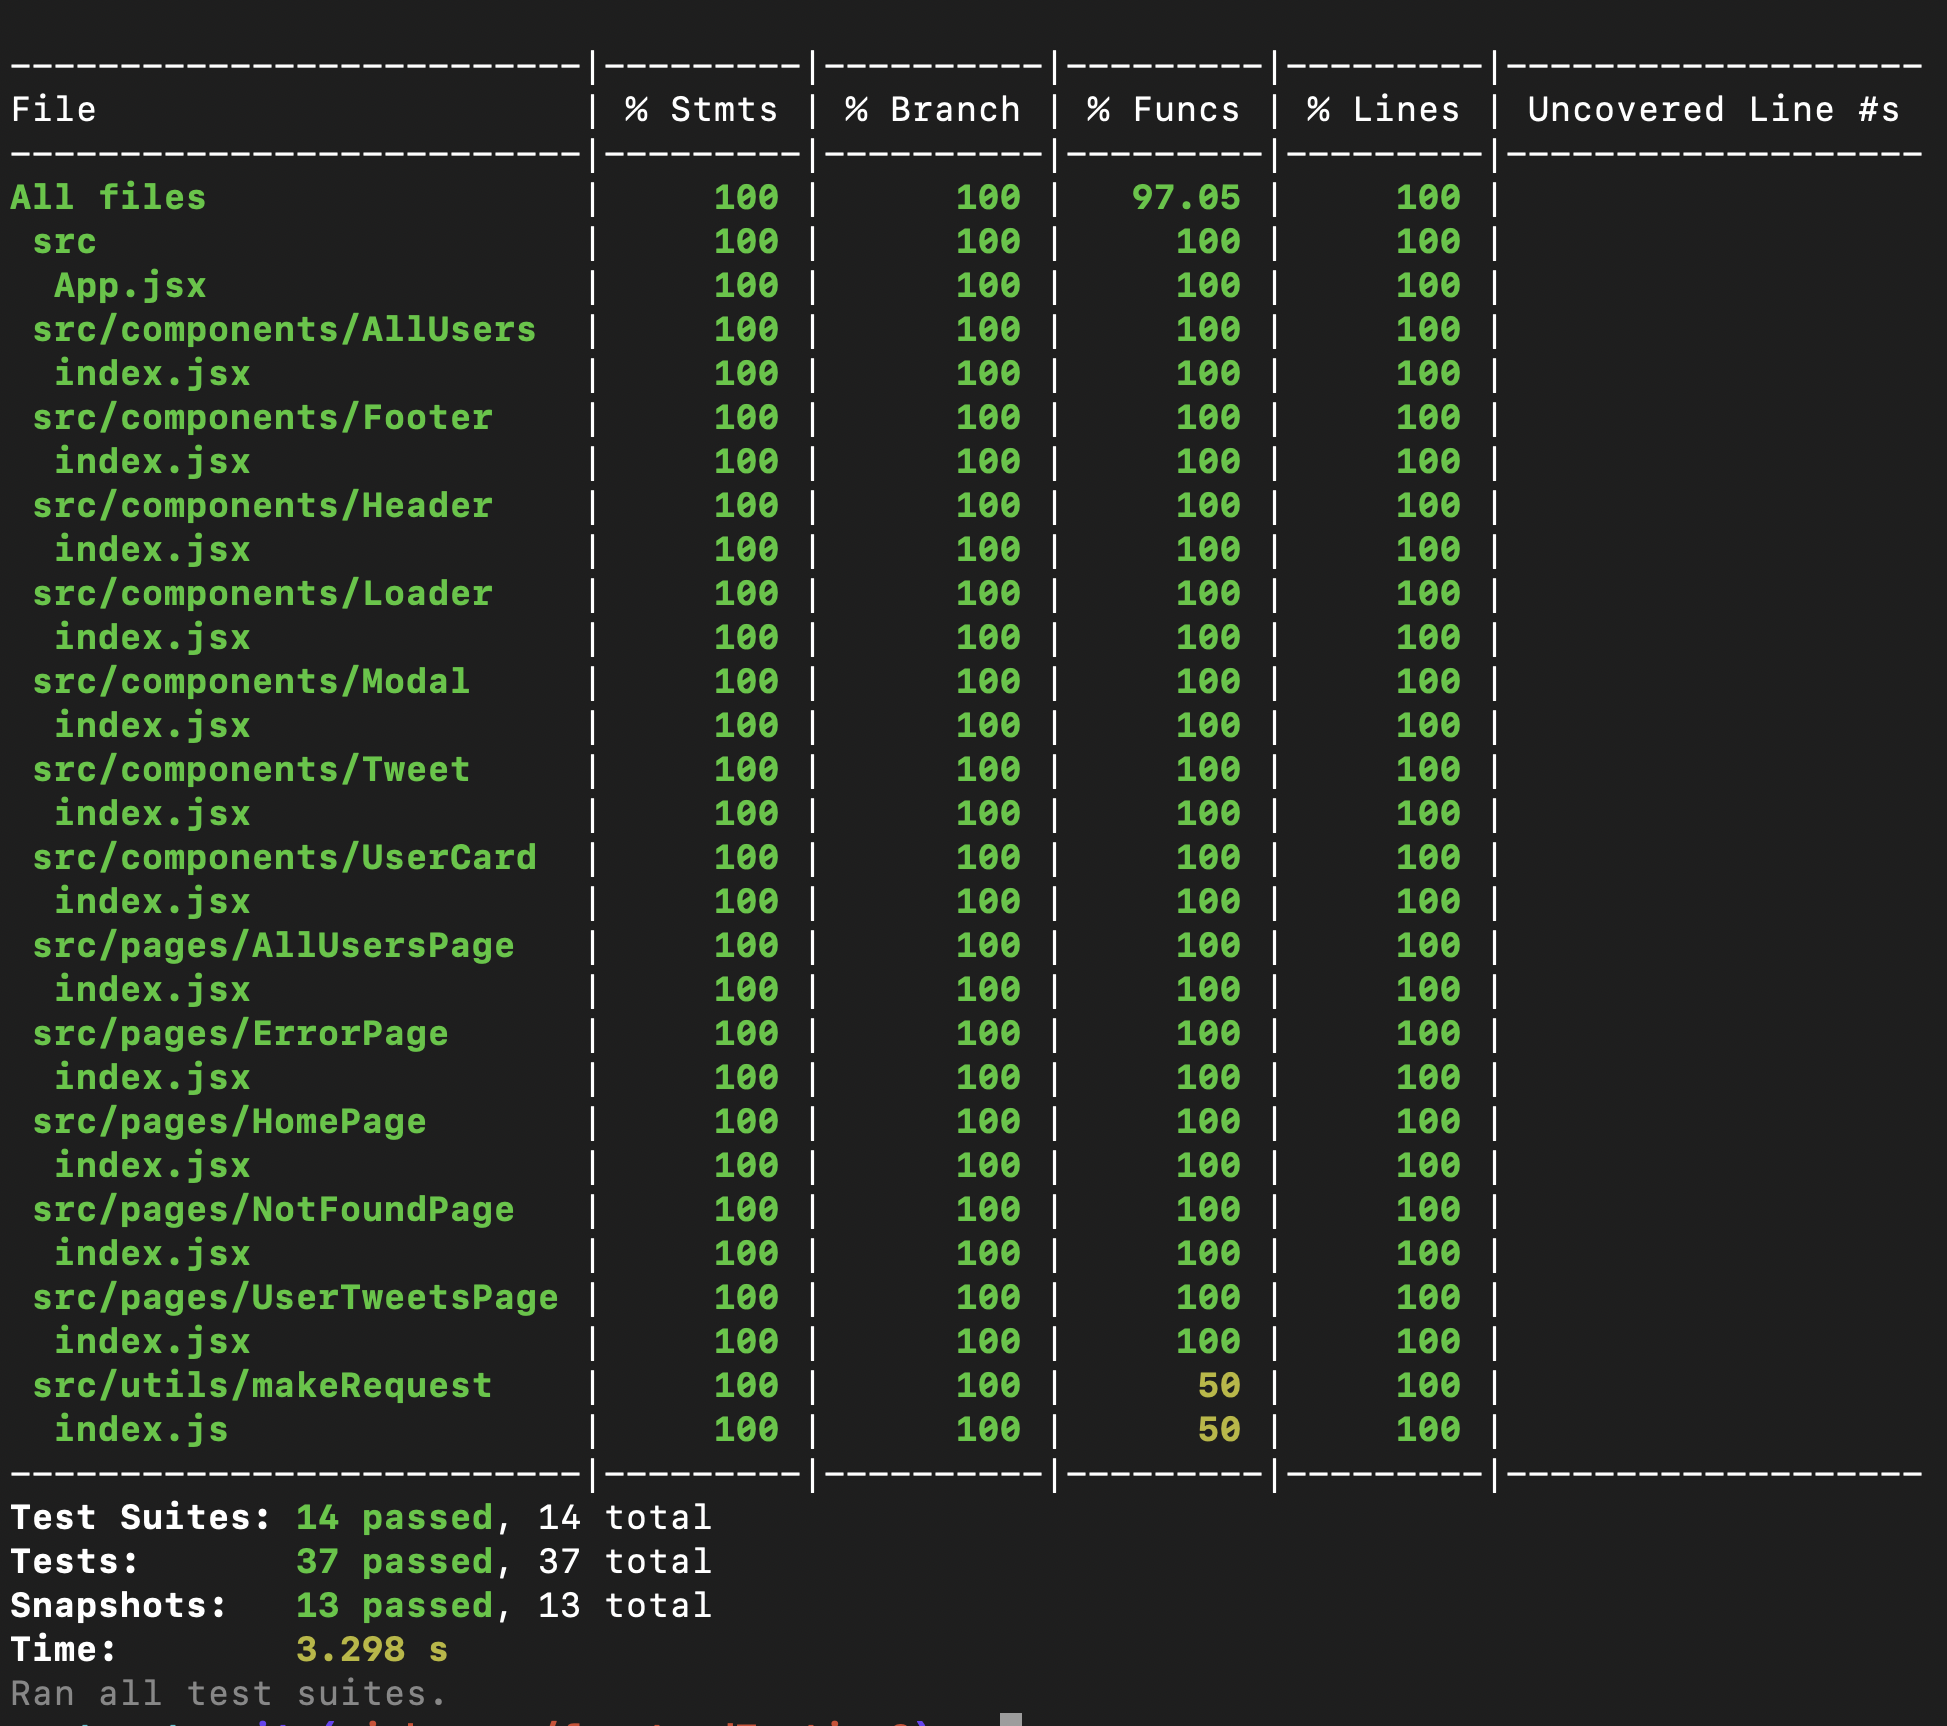
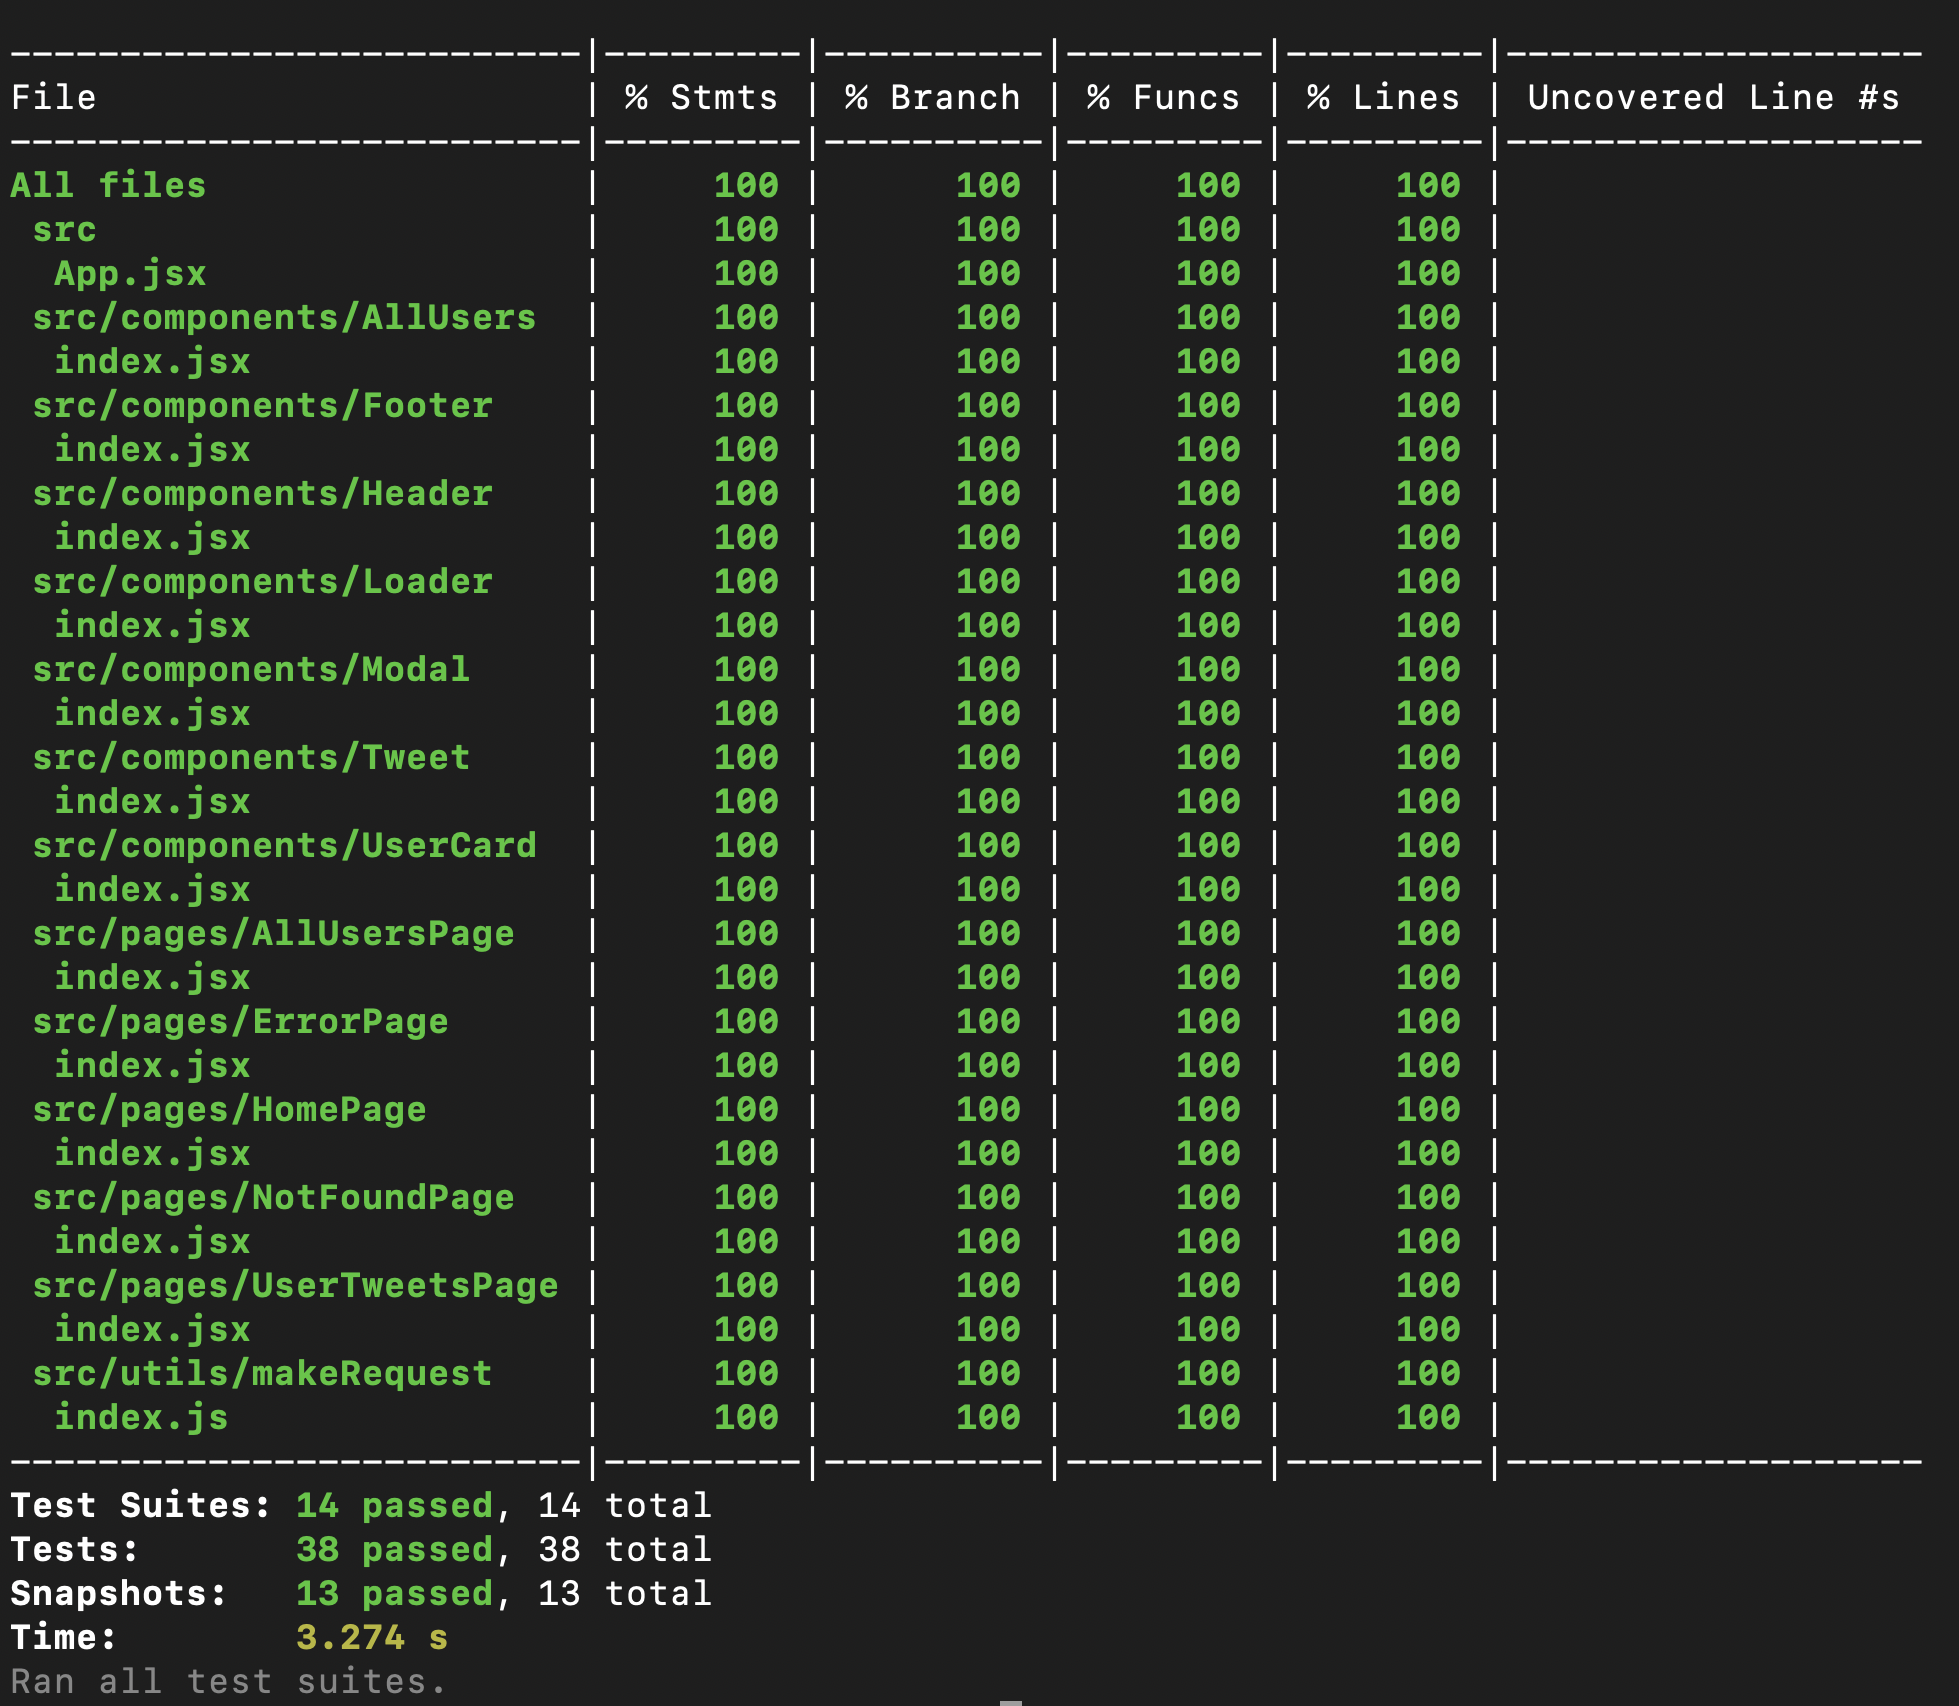
improv: add one more test to makeRequest

Changed region(s): [[0.0, 0.0311, 0.9861, 0.9941], [0.4931, 0.9941, 0.5239, 1.0], [0.2773, 0.9941, 0.3082, 1.0]]

diff --git a/tweety/src/pages/AllUsersPage/AllUsersPage.test.jsx b/tweety/src/pages/AllUsersPage/AllUsersPage.test.jsx
@@ -2,7 +2,6 @@ import React from 'react';
 import {
   render, screen,
 } from '@testing-library/react';
-import { act } from 'react-dom/test-utils';
 import AllUsersPage from './index';
 
 const mockNavigate = jest.fn();
@@ -34,9 +33,7 @@ describe('AllUsersPage', () => {
     expect(asFragment(<AllUsersPage />)).toMatchSnapshot();
   });
   it('should render all the user details when the page is loaded', async () => {
-    act(() => {
-      render(<AllUsersPage />);
-    });
+    render(<AllUsersPage />);
     expect(await screen.findAllByText('Twitter Dev')).toBeTruthy();
     expect(await screen.findAllByText('@TwitterDev')).toBeTruthy();
     expect(await screen.findAllByText('Internet')).toBeTruthy();

diff --git a/tweety/src/pages/UserTweetsPage/UserTweetsPage.test.jsx b/tweety/src/pages/UserTweetsPage/UserTweetsPage.test.jsx
@@ -2,6 +2,7 @@ import React from 'react';
 import {
   render, screen, fireEvent,
 } from '@testing-library/react';
+import { act } from 'react-dom/test-utils';
 import UserTweetsPage from './index';
 import { USERS_ROUTE } from '../../constants/routes';
 
@@ -66,7 +67,9 @@ jest.mock('../../utils/makeRequest/', () => (apiEndpoint) => {
 
 describe('UserTweetsPage', () => {
   beforeEach(() => {
-    render(<UserTweetsPage />);
+    act(() => {
+      render(<UserTweetsPage />);
+    });
   });
   it('should take a snapshot of UserTweetsPage', () => {
     const { asFragment } = render(<UserTweetsPage />);

diff --git a/tweety/src/utils/makeRequest/makeRequest.test.js b/tweety/src/utils/makeRequest/makeRequest.test.js
@@ -54,4 +54,8 @@ describe('makeRequest', () => {
     expect(mockNavigate).toHaveBeenCalledTimes(1);
     expect(mockNavigate).toHaveBeenCalledWith('/Something-Wrong');
   });
+  it('should return an empty array if the apiEndpoint is empty', async () => {
+    const response = await makeRequest();
+    expect(response).toStrictEqual([]);
+  });
 });

diff --git a/tweety/README.md b/tweety/README.md
@@ -6,20 +6,20 @@
 
 ### 2. All users page
 
-![all users image](./screenshots/AllUsersPage.png "all users page image")
+![all users image](./Screenshots/AllUsersPage.png "all users page image")
 
 ### 3. All tweets page
 
-![all tweets page image](./screenshots/AddTweetsPage.png "all tweets page image")
+![all tweets page image](./Screenshots/AddTweetsPage.png "all tweets page image")
 
 ### 4. Add tweets page
 
-![add tweets page image](./screenshots/AddTweetsPage.png "add tweets page image")
+![add tweets page image](./Screenshots/AddTweetsPage.png "add tweets page image")
 
 ### 5. All tweets page after updation
 
-![all tweets page after updation image](./screenshots/UpdatedTweetsPage.png "all tweets page after updation image")
+![all tweets page after updation image](./Screenshots/UpdatedTweetsPage.png "all tweets page after updation image")
 
 ### 6. Test Coverage Report
 
-![test coverage report image](./screenshots/TestCoverageReport.png "test coverage report image")
+![test coverage report image](./Screenshots/TestCoverageReport.png "test coverage report image")
